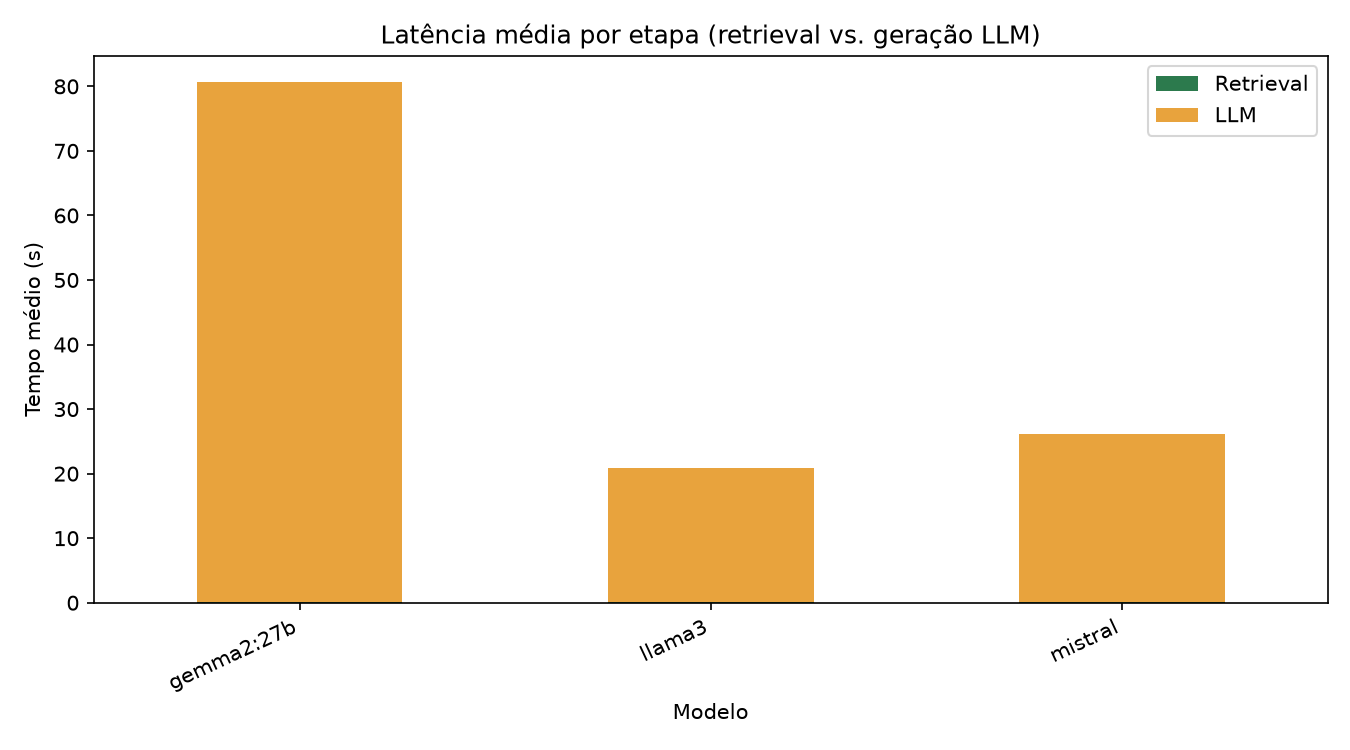
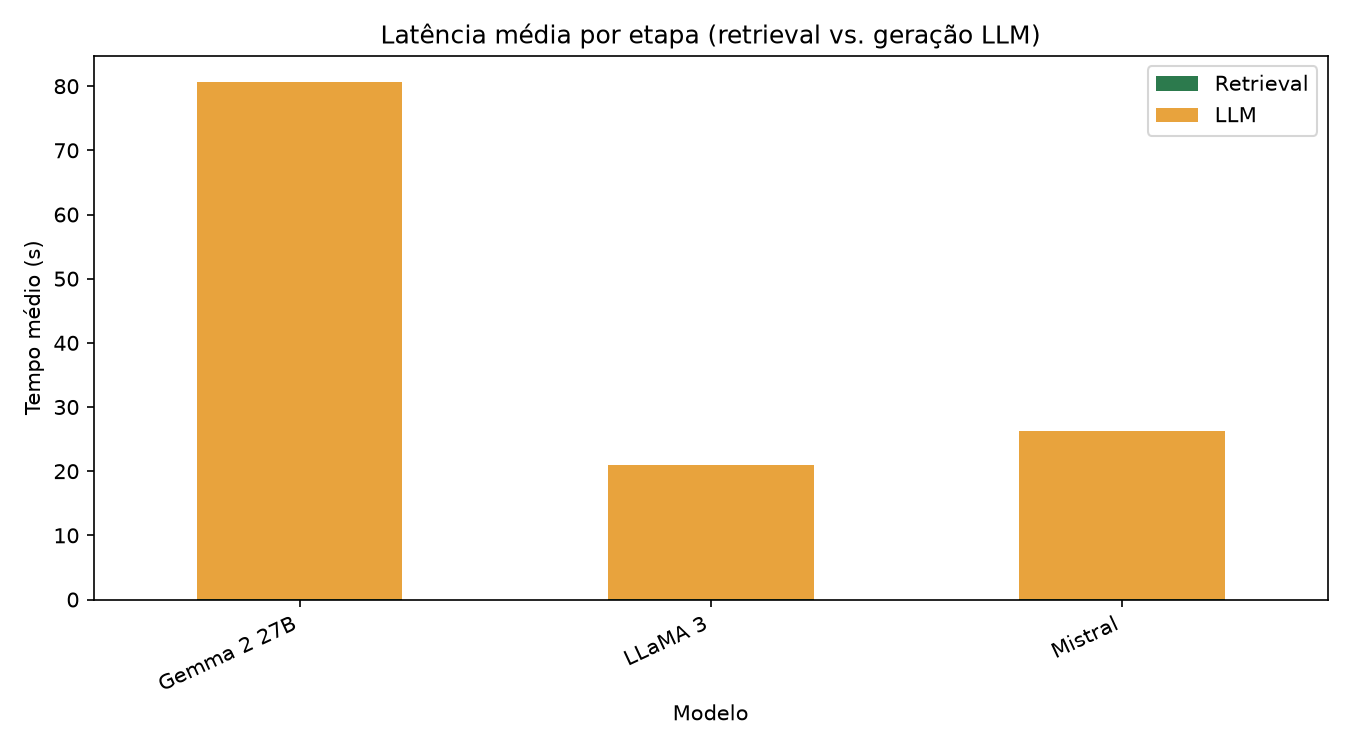
ocs: atualiza gráficos e tabelas com nomes padronizados e throughput corrigido

diff --git a/resultados/tabela_qualidade.md b/resultados/tabela_qualidade.md
@@ -2,6 +2,6 @@
 
 | Modelo | faithfulness | answer_relevancy | context_precision | context_recall | answer_correctness |
 |---|---|---|---|---|---|
-| gemma2:27b | 0.8024 | 0.4367 | 0.64 | 0.5383 | 0.4214 |
-| llama3 | 0.6865 | 0.3579 | 0.7 | 0.5333 | 0.3213 |
-| mistral | 0.7474 | 0.5618 | 0.66 | 0.5133 | 0.4093 |
+| Gemma 2 27B | 0.8024 | 0.4367 | 0.64 | 0.5383 | 0.4214 |
+| LLaMA 3 | 0.6865 | 0.3579 | 0.7 | 0.5333 | 0.3213 |
+| Mistral | 0.7474 | 0.5618 | 0.66 | 0.5133 | 0.4093 |

diff --git a/resultados/tabela_desempenho.md b/resultados/tabela_desempenho.md
@@ -1,7 +1,7 @@
 # Tabela de Desempenho por Modelo
 
-| Modelo | N | Retrieval (s) | LLM (s) |
-|---|---|---|---|
-| gemma2:27b | 100 | 0.099 | 80.569 |
-| llama3 | 100 | 0.094 | 20.857 |
-| mistral | 100 | 0.094 | 26.104 |
+| Modelo | N | Retrieval (s) | LLM (s) | Tokens/s (fim a fim) |
+|---|---|---|---|---|
+| Gemma 2 27B | 100 | 0.099 | 80.569 | 0.58 |
+| LLaMA 3 | 100 | 0.094 | 20.857 | 2.22 |
+| Mistral | 100 | 0.094 | 26.104 | 3.26 |
